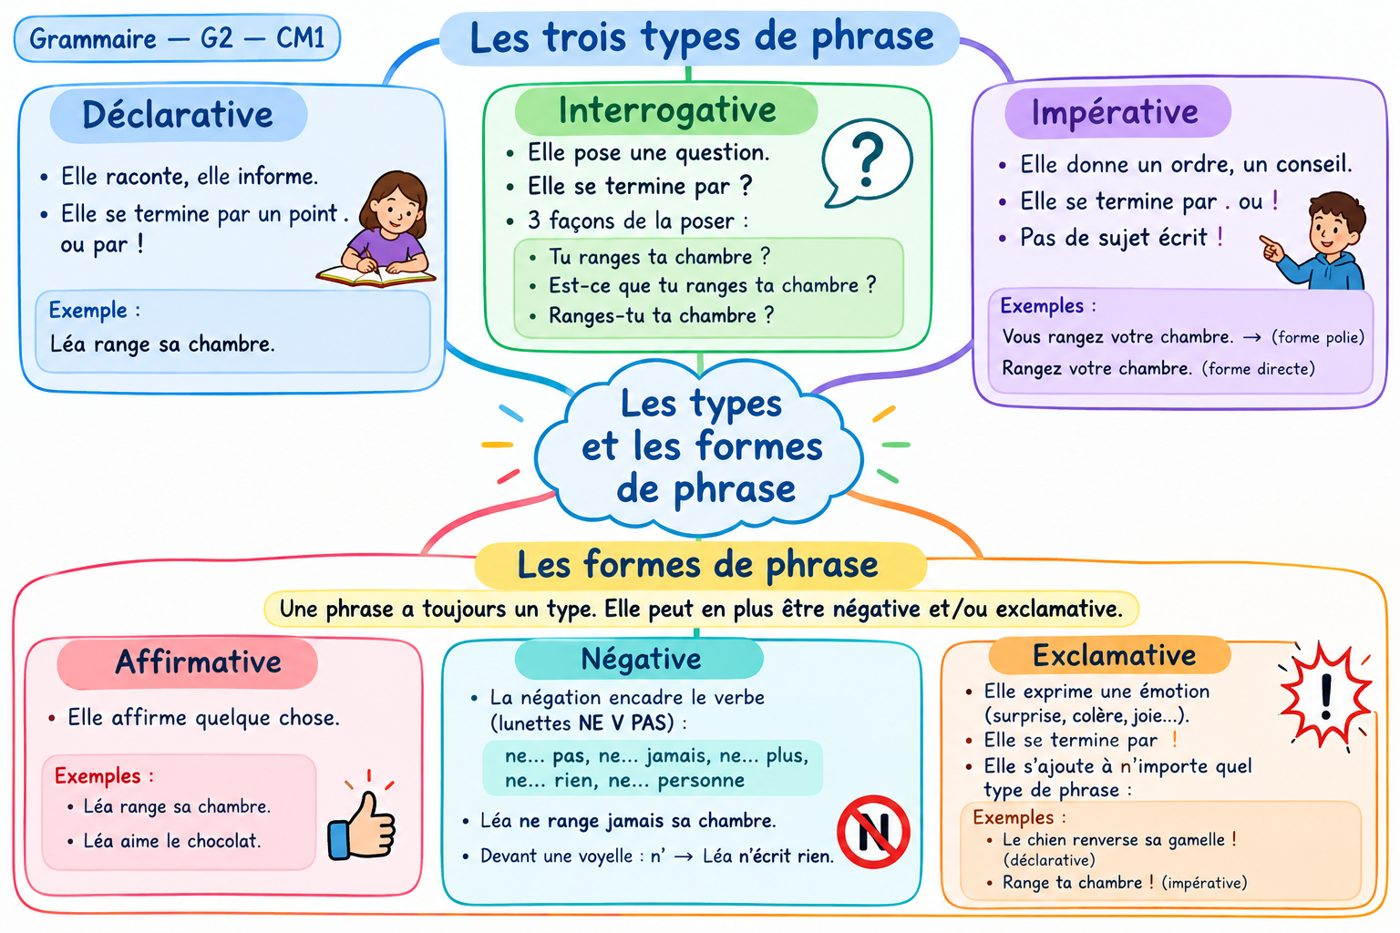
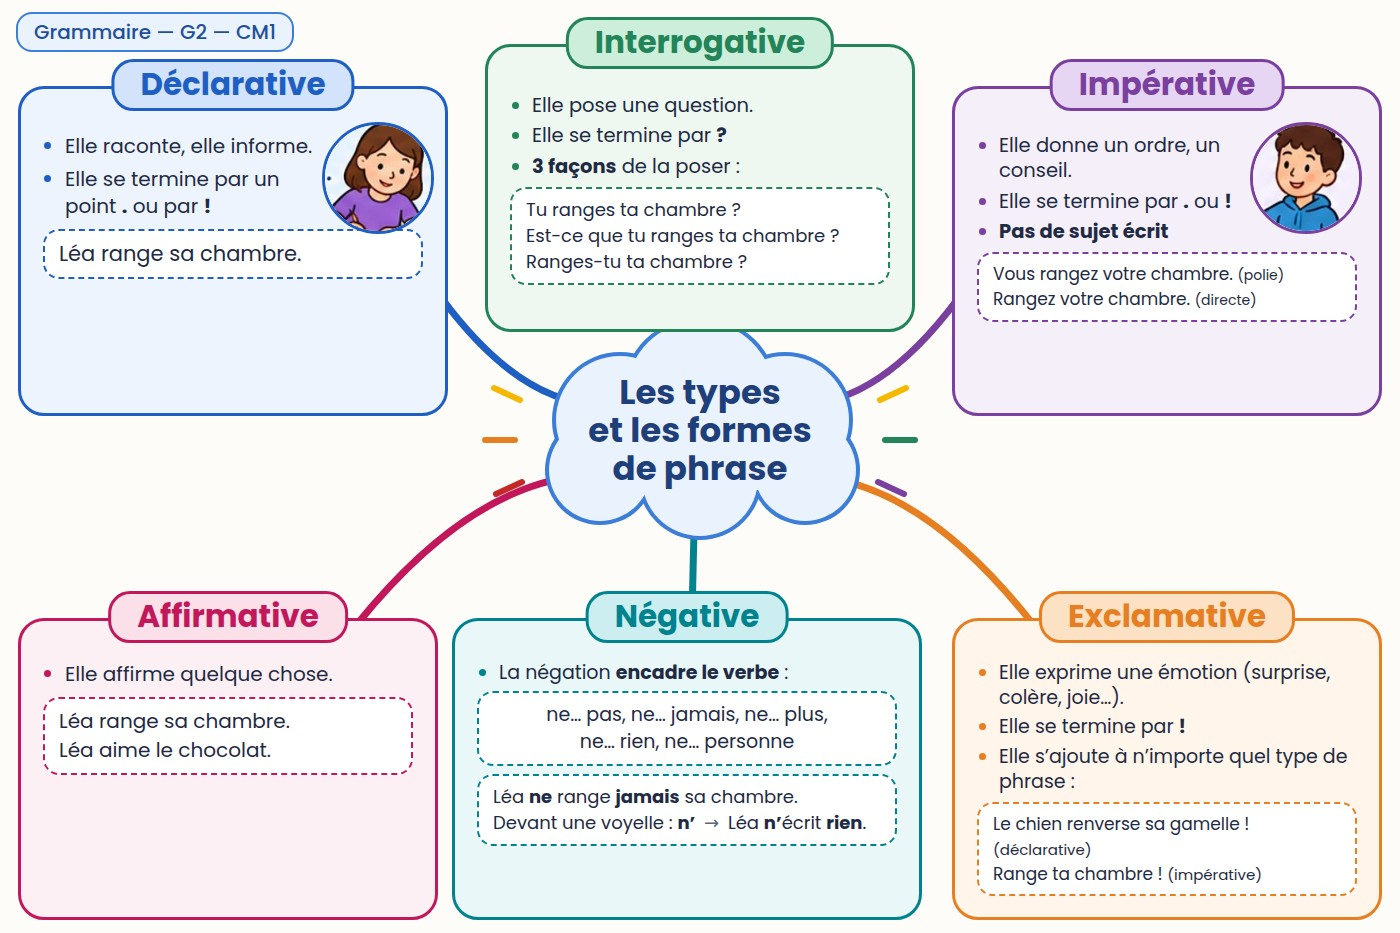
G2 : les cartes CE2, CM1 et CM2 sont fabriquées par le même outil (même apparence) ; CM2 garde la déclarative

diff --git a/outils/lecons/g2_cartes.py b/outils/lecons/g2_cartes.py
@@ -1,8 +1,10 @@
-"""Cartes mentales de G2 (types et formes de phrase) pour le CE2 et le CM2 (28/10/2026) ; la carte du CM1 est images/G2.jpg.
+"""Cartes mentales de G2 (types et formes de phrase) pour les TROIS classes, fabriquées par le même outil pour avoir la même apparence (13/11/2026 :
+  la carte du CM1 était une image faite à part, les cartes CE2 et CM2 en différaient).
+  - G2 (CM1) : la carte d'origine, refaite à l'identique pour le texte (3 façons de poser une question, ne… pas / jamais / plus / rien / personne) ;
   - G2-CE2 : deux façons de poser une question (? seul, est-ce que), négation ne… pas seulement ;
-  - G2-CM2 : la carte du CM1, avec la phrase simple / complexe (verbes conjugués, et, mais, car) dans la case de la déclarative.
+  - G2-CM2 : comme le CM1, avec en plus la phrase simple / complexe sous la déclarative (même titre, mêmes six cadres).
 Mêmes six zones que G2 (decl, inter, imp, aff, neg, excl) : les leçons n'ont pas à changer de zones.
-Usage : python3 lecons/g2_cartes.py   → sortie/G2-CE2_carte.jpeg, sortie/G2-CM2_carte.jpeg (puis les copier dans images/G2-CE2.jpg, G2-CM2.jpg)."""
+Usage : python3 lecons/g2_cartes.py   → sortie/G2_carte.jpeg, G2-CE2_carte.jpeg, G2-CM2_carte.jpeg (puis les copier dans images/G2.jpg, G2-CE2.jpg, G2-CM2.jpg)."""
 import os, sys
 sys.path.insert(0, os.path.join(os.path.dirname(os.path.abspath(__file__)), '..'))
 from mapgen import build, TL, TC, TR
@@ -13,18 +15,14 @@ S, V = '<span class="s">{}</span>', '<span class="v">{}</span>'
 
 
 def carte(lid, chip, niveau):
-    ce2, cm2 = niveau == 'CE2', niveau == 'CM2'
-    if cm2:
-        decl = '''<ul style="padding-right:104px;font-size:19px;line-height:1.28;margin-top:-16px">
-  <li><b>Phrase simple</b> : un seul verbe conjugué.</li>
-  <li><b>Phrase complexe</b> : plusieurs verbes conjugués.</li></ul>''' + EX('Le chat <span class="v">dort</span>. <span style="font-size:15px">(1 verbe)</span><br>Le chat <span class="v">dort</span> et le chien <span class="v">aboie</span>. <span style="font-size:15px">(2 verbes)</span>', 17) + \
-        '<p class="small" style="margin:6px 0 0;font-size:16px">On relie avec <b>et</b>, <b>mais</b>, <b>car</b> ou une virgule.<br>L’infinitif ne compte pas : Léa veut <i>chanter</i>.</p>'
-        tl_title = 'Simple ou complexe'
-    else:
-        decl = '''<ul style="padding-right:104px;font-size:20px;margin-top:-14px">
+    ce2, cm2 = niveau == 'CE2', niveau == 'CM2'  # CM1 : ni l'un ni l'autre
+    decl = '''<ul style="padding-right:104px;font-size:20px;margin-top:-14px">
   <li>Elle raconte, elle informe.</li>
   <li>Elle se termine par un point <b>.</b> ou par <b>!</b></li></ul>''' + EX('Léa range sa chambre.', 21)
-        tl_title = 'Déclarative'
+    if cm2:
+        decl = decl.replace('font-size:20px;margin-top:-14px', 'font-size:19px;line-height:1.25;margin-top:-14px') + \
+            '<p class="small" style="margin:10px 0 0;font-size:17px;line-height:1.4"><b>Phrase simple</b> : un seul <span class="v">verbe conjugué</span>.<br><b>Phrase complexe</b> : plusieurs verbes conjugués, reliés par <b>et</b>, <b>mais</b>, <b>car</b> ou une virgule.</p>'
+    tl_title = 'Déclarative'
     if ce2:
         inter = '''<ul style="font-size:19.5px;line-height:1.3;margin-top:-12px"><li>Elle pose une question.</li><li>Elle se termine par <b>?</b></li><li><b>2 façons</b> de la poser :</li></ul>''' + \
                 EX('Tu ranges ta chambre ?<br>Est-ce que tu ranges ta chambre ?', 19)
@@ -45,19 +43,20 @@ def carte(lid, chip, niveau):
     exc = '''<ul style="font-size:19px;line-height:1.3;margin-top:-10px"><li>Elle exprime une émotion (surprise, colère, joie…).</li><li>Elle se termine par <b>!</b></li><li>Elle s’ajoute à n’importe quel type de phrase :</li></ul>''' + \
           EX('Le chien renverse sa gamelle ! <span style="font-size:15px">(déclarative)</span><br>Range ta chambre ! <span style="font-size:15px">(impérative)</span>', 17)
     boxes = [
-     dict(id='decl', col='bleu', geom=TL, title=tl_title, avatar=('girl', 322, 122), html=decl, hstyle='font-size:30px' if cm2 else ''),
+     dict(id='decl', col='bleu', geom=TL, title=tl_title, avatar=('girl', 322, 122), html=decl, hstyle=''),
      dict(id='inter', col='vert', geom=TC, title=inter_t, html=inter),
      dict(id='imp', col='violet', geom=TR, title='Impérative', avatar=('boy', 1250, 122), html=imp),
      dict(id='aff', col='rose', geom=AFF, title='Affirmative', html=aff, style='padding-top:50px'),
      dict(id='neg', col='turquoise', geom=NEG, title='Négative', html=neg, style='padding-top:50px'),
      dict(id='excl', col='orange', geom=EXC, title='Exclamative', html=exc, style='padding-top:50px'),
     ]
-    legend = '<span class="v">verbe conjugué</span>' if cm2 else ''
-    titre = 'La phrase :<br>simple ou<br>complexe' if cm2 else 'Les types<br>et les formes<br>de phrase'
+    legend = ''
+    titre = 'Les types<br>et les formes<br>de phrase'
     return build(lid, titre, chip, legend, boxes, sub='', title_size=34, legend_pos='right:26px;top:540px')
 
 
 if __name__ == '__main__':
+    carte('G2', 'Grammaire — G2 — CM1', 'CM1')
     carte('G2-CE2', 'Grammaire — G2 — CE2', 'CE2')
     carte('G2-CM2', 'Grammaire — G2 — CM2', 'CM2')
-    print('cartes G2 : sortie/G2-CE2_carte.jpeg, G2-CM2_carte.jpeg')
+    print('cartes G2 : sortie/G2_carte.jpeg, G2-CE2_carte.jpeg, G2-CM2_carte.jpeg')

diff --git a/CLAUDE.md b/CLAUDE.md
@@ -50,6 +50,7 @@ Site des leçons interactives (ceintures de français CM1) publié avec GitHub P
   une ceinture absente de la classe demandée ouvre la leçon d'une autre classe qui l'a (21/10/2026).
 - Sommaire par classe : boutons CE2 / CM1 / CM2 (adresse `#niveau=CE2`…). Une leçon sans champ `niveau`
   est rangée en CM1 ; pour une leçon d'une autre classe, ajouter `niveau:'CE2'` ou `niveau:'CM2'` dans `TRACES`.
+- Cartes de G2 (13/11/2026) : les trois (`G2`, `G2-CE2`, `G2-CM2`) sont fabriquées par `outils/lecons/g2_cartes.py` (même apparence ; la carte CM1 était une image à part). `python3 outils/lecons/g2_cartes.py`, puis copier `outils/sortie/G2*_carte.jpeg` dans `images/`.
 - CM2 : mêmes numéros, mêmes couleurs, mêmes notions qu'en CM1 (choix de l'enseignante, octobre 2026).
   Une leçon CM2 (id `XX-CM2`, code affiché `XX`) = la leçon CM1 + les écrans de `CM2_PLUS` (étiquette « CM2 »,
   placés après le dernier écran de leur section) + un encadré « En CM2, j'apprends aussi » sous la carte.

diff --git a/outils/LISEZMOI.md b/outils/LISEZMOI.md
@@ -23,7 +23,7 @@ Tout ce qui est fabriqué va dans `sortie/`, qui n'est pas enregistré dans le d
    des trois classes (`tout CE2` : une classe). Réponse attendue : « TOUT EST BON ».
 6. Homophones : `python3 jumeaux.py` vérifie qu'aucun jumeau interdit n'apparaît dans H2 à H7 (il lit `sortie/`, donc il faut avoir relancé les scripts h2 à h7).
 
-Les leçons G1, G2, G3, H1, V1 et V2 ont été faites autrement, avant ces outils : elles se modifient directement dans `index.html`.
+Les leçons G1, G3, H1, V1 et V2 ont été faites autrement, avant ces outils : elles se modifient directement dans `index.html`.
 
 ## Les leçons CM2
 
